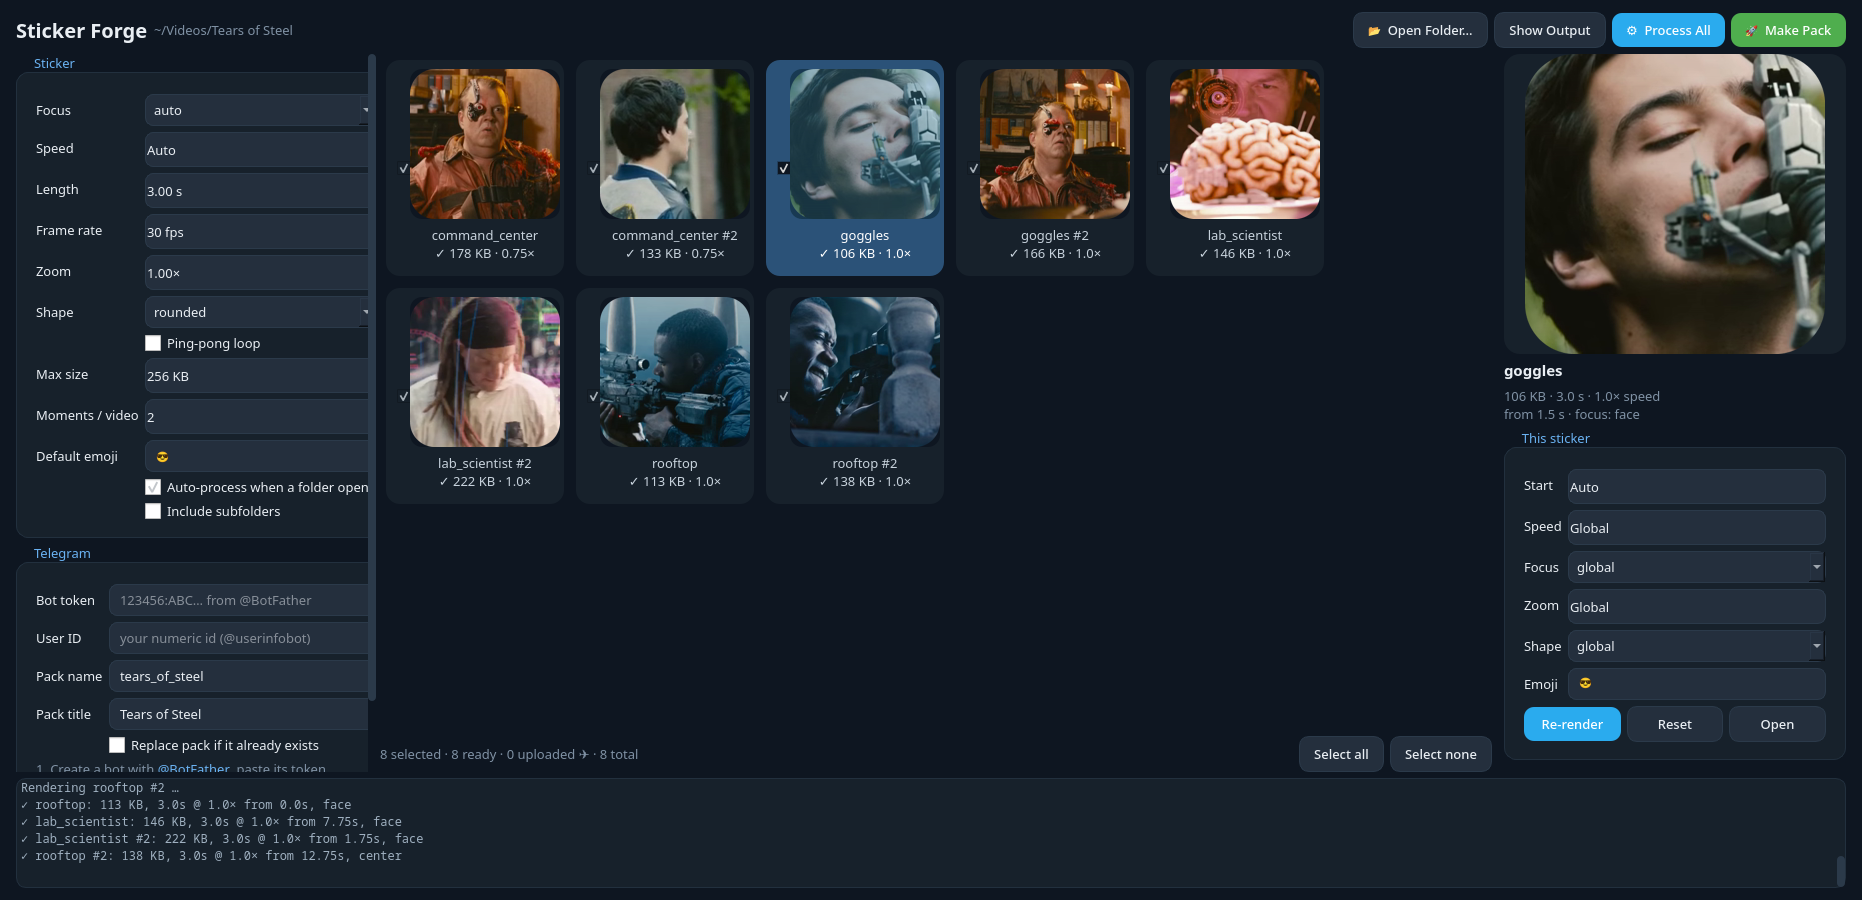
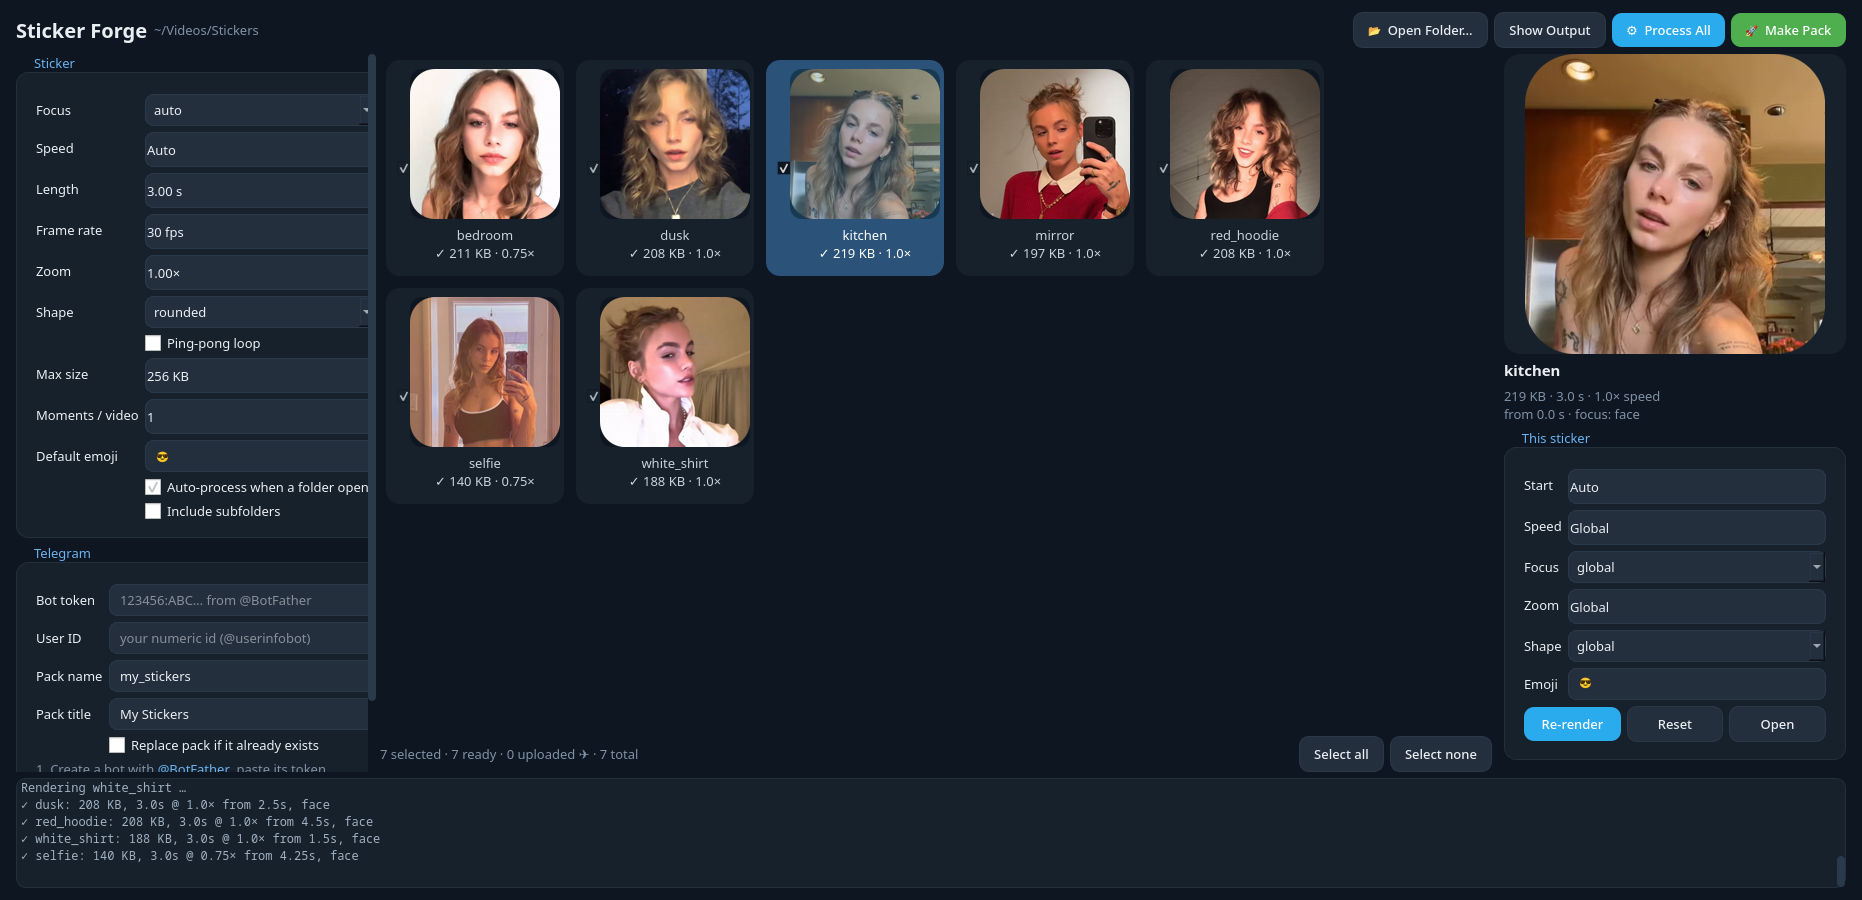
Replace README screenshots and sticker preview with real footage

diff --git a/README.md b/README.md
@@ -70,10 +70,6 @@ Telegram's Bot API rejects video stickers over 256 KB. If you raise *Max size* (
 - Settings, including the bot token, are stored as plain text. On Linux they're in `~/.config/stickerforge/stickerforge.conf`; on Windows, in the registry under `HKEY_CURRENT_USER\Software\stickerforge`.
 - The face-detection model (230 KB) is downloaded once into `~/.cache/stickerforge` (Windows: `%USERPROFILE%\.cache\stickerforge`).
 
-## Credits
-
-Screenshots use footage from *Tears of Steel*, (c) Blender Foundation | [mango.blender.org](https://mango.blender.org), licensed under [CC BY 3.0](https://creativecommons.org/licenses/by/3.0/).
-
 ## License
 
 Distributed under the GNU General Public License, version 3. See [LICENSE](LICENSE).
